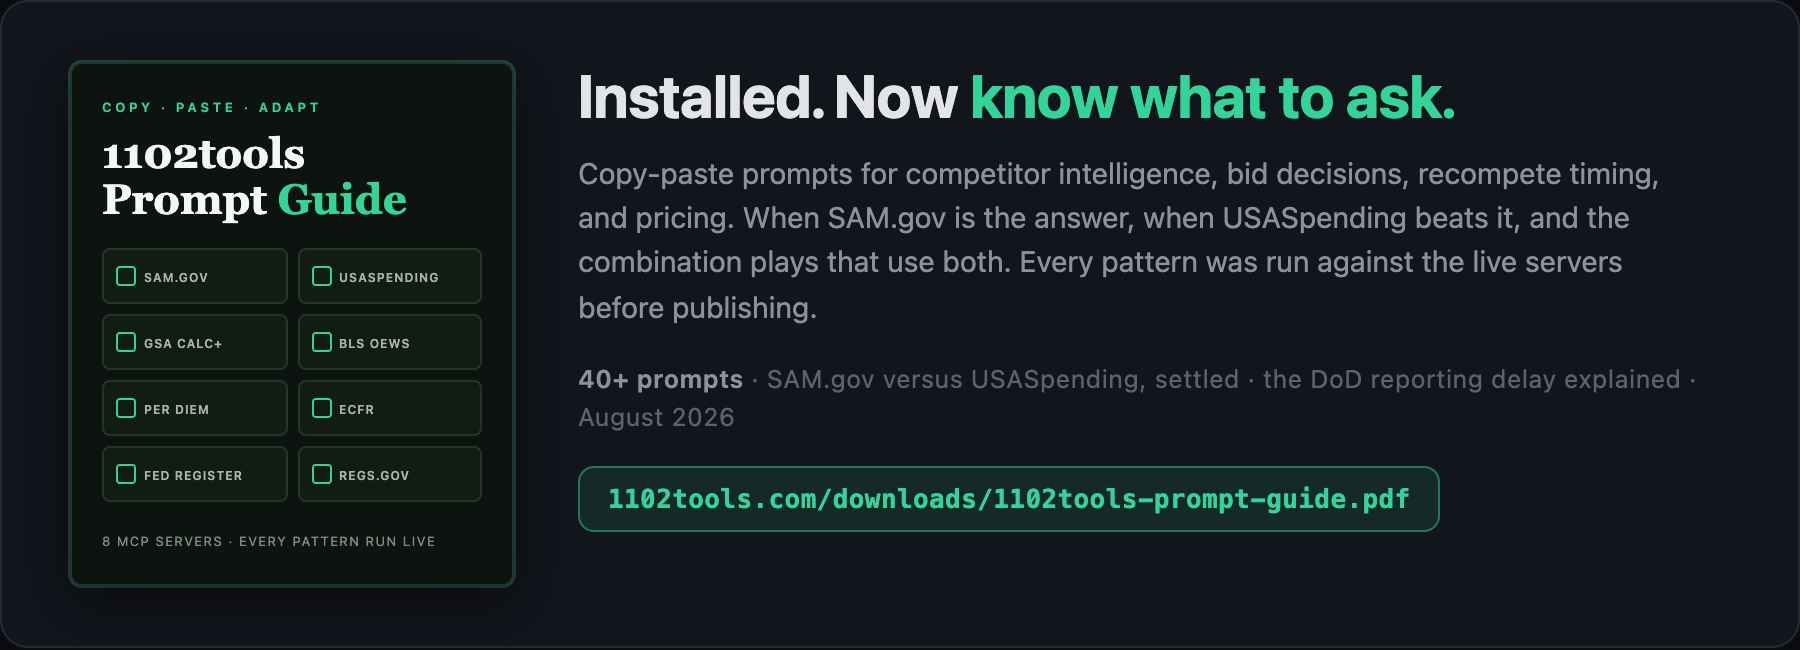
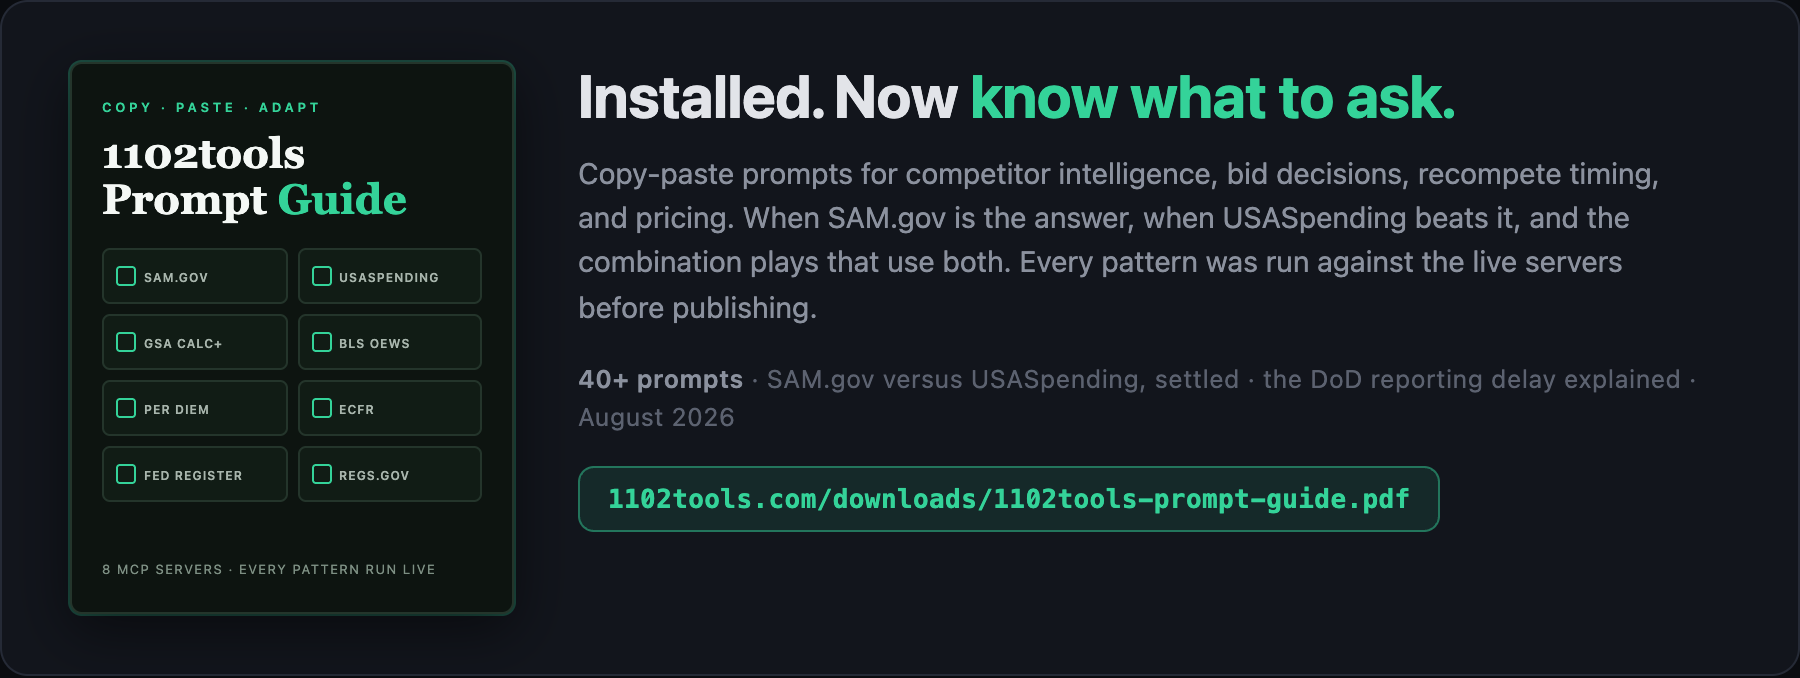
Promo card: wider footer gap, cache-busted URL

diff --git a/readme.md b/readme.md
@@ -12,7 +12,7 @@ Website: [1102tools.com](https://1102tools.com)
 
 **[Download the universal setup guide (PDF)](https://1102tools.com/downloads/1102tools-universal-setup.pdf)**, then drop it into Claude, ChatGPT (Codex), Gemini (Antigravity), Copilot, DeepSeek Harness, Grok, Cursor, opencode, or LibreChat and say what you want installed. The AI reads the guide and walks you through every step: free API keys, the exact config for your platform, restart, verify. If 35 pages is more than your chat will accept, paste in just the section for your platform; every option is written to stand alone. Part 9 is troubleshooting built from errors I actually hit while executing every major install path for real.
 
-[![The 1102tools prompt guide: installed, now know what to ask. Copy-paste prompts for competitor intelligence, bid decisions, recompete timing, and pricing. Covers when SAM.gov is the answer, when USASpending beats it, and the combination plays that use both, including the DoD reporting delay. Every pattern was run against the live servers before publishing. August 2026.](docs/prompt-guide-promo.png)](https://1102tools.com/downloads/1102tools-prompt-guide.pdf)
+[![The 1102tools prompt guide: installed, now know what to ask. Copy-paste prompts for competitor intelligence, bid decisions, recompete timing, and pricing. Covers when SAM.gov is the answer, when USASpending beats it, and the combination plays that use both, including the DoD reporting delay. Every pattern was run against the live servers before publishing. August 2026.](docs/prompt-guide-promo.png?v=2)](https://1102tools.com/downloads/1102tools-prompt-guide.pdf)
 
 **[Download the prompt guide (PDF)](https://1102tools.com/downloads/1102tools-prompt-guide.pdf)**: what to ask once the servers are in. Competitor intelligence, bid decisions, recompete timing, and pricing, centered on when SAM.gov is the answer and when USASpending beats it. Every prompt pattern was run against the live servers before publishing.
 
